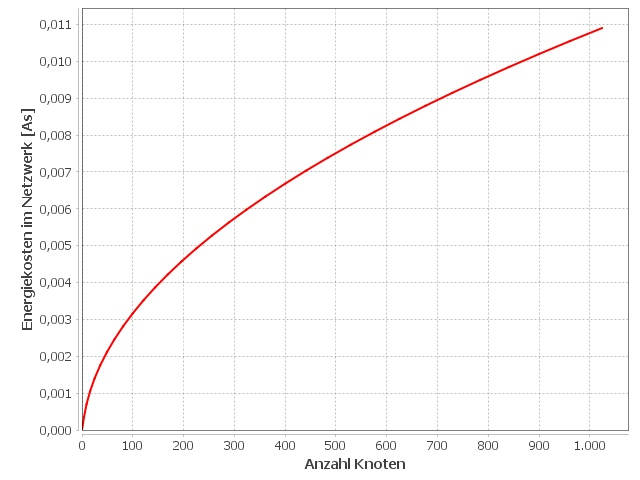
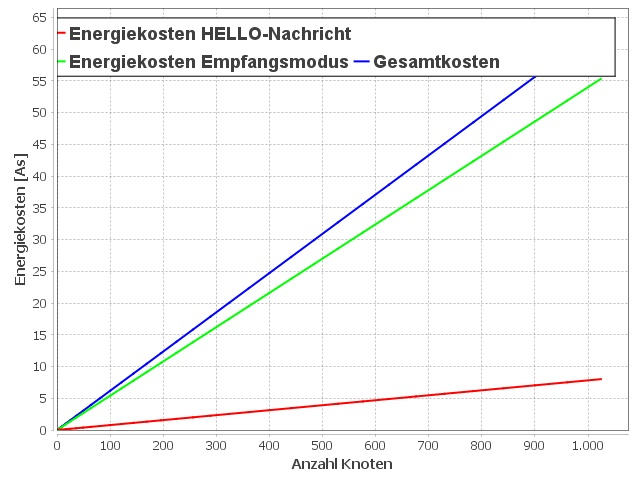
Update Kostenanalyse

diff --git a/src/AODV/AodvSimulation.java b/src/AODV/AodvSimulation.java
@@ -63,29 +63,37 @@ public class AodvSimulation {
 		fig.RenderPlot();
 		
 		fig.xlabel("Anzahl Knoten");
-		fig.ylabel("Energiekosten im Netzwerk [As]");
+		fig.ylabel("Energiekosten [As]");
 		fig.grid("on", "on");
 		fig.legend("northeast");
 		fig.saveas("Output/AODV/AODV_Uebertragungskosten.jpeg",640,480);
 		
 		//Konstante Energiekosten
 		anzahlKnoten = new double[32];
-		double konstanteKosten[] = new double[32];
+		double konstanteKostenRREQ[] = new double[32];
+		double nachrichtenEmpfangen[] = new double[32];
+		double gesamtKosten[] = new double[32];
 		for(int i=2; i<33; i++){
-			anzahlKnoten[i-1] = Math.pow(i, 2);
+			anzahlKnoten[i-2] = Math.pow(i, 2);
 			
-			konstanteKosten[i-1] = kostenanalyseHelloNachrichten(i);
+			konstanteKostenRREQ[i-2] = kostenanalyseHelloNachrichten(i);
+			
+			nachrichtenEmpfangen[i-2] = Math.pow(i, 2)*0.0054*(AODV_Knoten.HELLO_INTERVAL-Math.pow(RREQ.RREQ_UEBERTRAGUNGSZEIT,-6));
+		
+			gesamtKosten[i-2] = konstanteKostenRREQ[i-2] + nachrichtenEmpfangen[i-2];
 		}
 		fig = new MatlabChart();
 		
-		fig.plot(anzahlKnoten, konstanteKosten, "-r", (float) 2.0, "");
-
+		fig.plot(anzahlKnoten, konstanteKostenRREQ, "-r", (float) 2.0, "Energiekosten HELLO-Nachricht");
+		fig.plot(anzahlKnoten, nachrichtenEmpfangen, "-g", (float) 2.0, "Energiekosten Empfangsmodus");
+		fig.plot(anzahlKnoten, gesamtKosten, "-b", (float) 2.0, "Gesamtkosten");
+		
 		fig.RenderPlot();
 		
 		fig.xlabel("Anzahl Knoten");
-		fig.ylabel("Energiekosten im Netzwerk [As]");
+		fig.ylabel("Energiekosten [As]");
 		fig.grid("on", "on");
-		//fig.legend("northeast");
+		fig.legend("northeast");
 		fig.saveas("Output/AODV/AODV_KonstanteUebertragungskosten.jpeg",640,480);
 	}
 	

diff --git a/src/BasisGraphStruktur/Knoten.java b/src/BasisGraphStruktur/Knoten.java
@@ -39,7 +39,7 @@ public abstract class Knoten {
 		this();
 		this.ID = id;
 		this.energiekosten = 0.0;
-		this.energiebedarfProEmpfangemBit = 0.000077858;
+		this.energiebedarfProGesendetemBit = 0.000077858;		
 		this.energiekostenStartsignal = 0.000150705;
 		this.energiekostenStoppsignal = 0.00020094;
 	}

diff --git a/src/AODV/AODV_Graph.java b/src/AODV/AODV_Graph.java
@@ -66,6 +66,7 @@ public class AODV_Graph extends Graph{
 			energiekosten += ((AODV_Knoten)knoten[i]).getEnergiekostenRREQs();
 		}
 		
+		
 		return energiekosten;
 	}
 }
